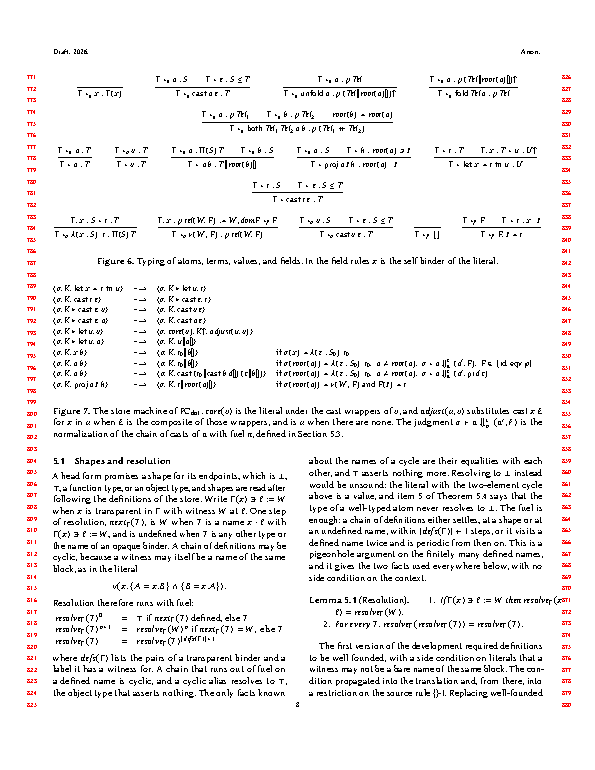
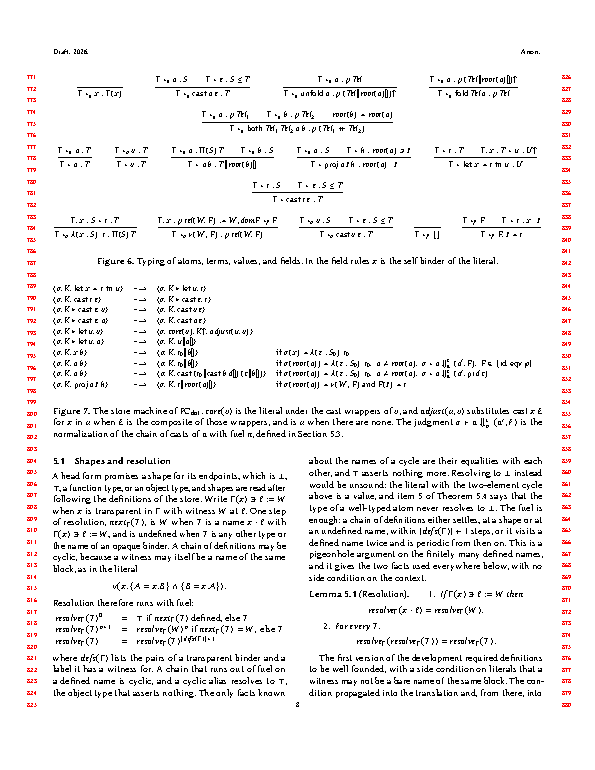
Paper: lemma layout

Changed region(s): [[0.5143, 0.7481, 0.9076, 0.9039], [0.8471, 0.7481, 0.8773, 0.7792]]

diff --git a/paper/sections/canonical.tex b/paper/sections/canonical.tex
@@ -20,8 +20,10 @@ where $\mathit{defs}(\Gamma)$ lists the pairs of a transparent binder and a labe
 
 \begin{lemma}[Resolution]\label{lem:resolve}
 \begin{enumerate}
-\item If $\Gamma(x) \ni \ell \mathrel{:=} W$ then $\resolve{\Gamma}{\sel{x}{\ell}} = \resolve{\Gamma}{W}$.
-\item For every $T$, $\resolve{\Gamma}{\resolve{\Gamma}{T}} = \resolve{\Gamma}{T}$.
+\item If $\Gamma(x) \ni \ell \mathrel{:=} W$ then
+\[ \resolve{\Gamma}{\sel{x}{\ell}} = \resolve{\Gamma}{W} . \]
+\item For every $T$,
+\[ \resolve{\Gamma}{\resolve{\Gamma}{T}} = \resolve{\Gamma}{T} . \]
 \end{enumerate}
 \end{lemma}
 
